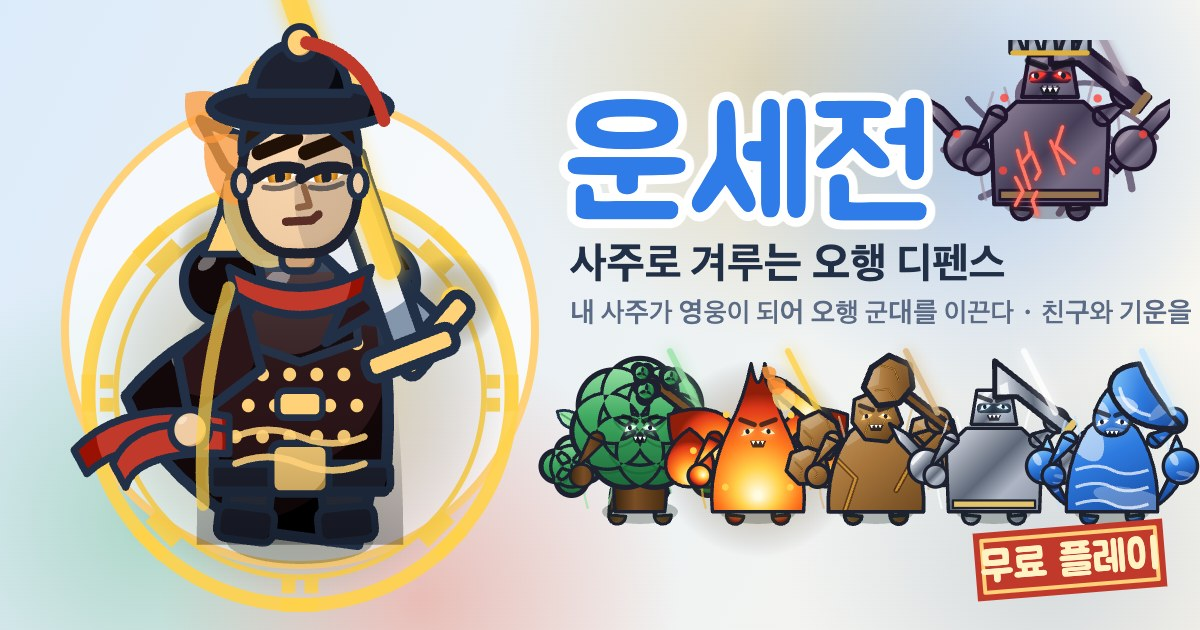
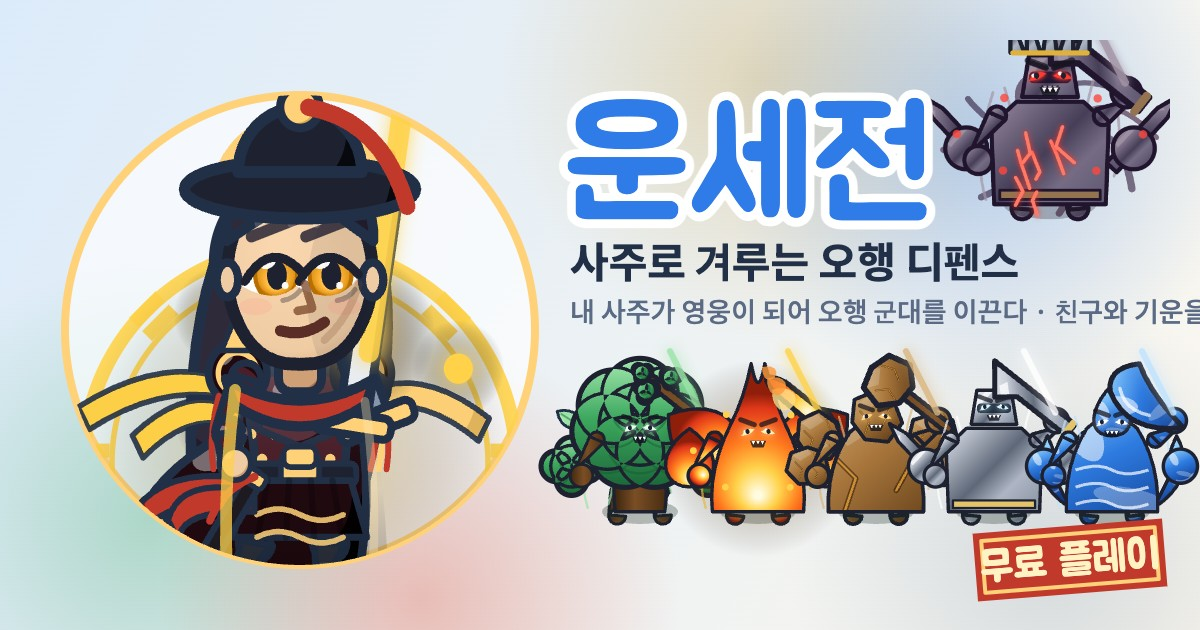
v8.8: hero evolution cutscene, home tap pose, bust share card, new og.jpg

Changed region(s): [[0.0617, 0.0, 0.4317, 0.9952], [0.4625, 0.3619, 1.0, 0.5127]]

diff --git a/index.html b/index.html
@@ -633,7 +633,7 @@
           <div class="r" id="assetList" style="margin-top:6px"></div>
           <div class="note" style="margin-top:6px">영웅 시트: 프레임 8장(대기 4 · 공격 3 · 피격 1), 발이 아래쪽 중앙. 신살 시트: 프레임 6~12장, 백호·역마는 옆모습(왼쪽→오른쪽으로 달림), 귀인은 정면.</div>
             </details>
-            <div class="note" style="text-align:center;padding:10px 0 20px">운세전 <span id="verTag">v8.7</span> · 사주로 겨루는 오행 디펜스</div>
+            <div class="note" style="text-align:center;padding:10px 0 20px">운세전 <span id="verTag">v8.8</span> · 사주로 겨루는 오행 디펜스</div>
           </section>
         </div>
         <nav class="tabbar">
@@ -1481,7 +1481,9 @@ function drawScene(){const cv2=$('homeScene');if(!cv2||!cv2.offsetWidth)return;c
     // 영웅 (마당 가운데) + 만세력 군대
     if(t>HW.next){HW.next=t+2.5+Math.random()*4;if(Math.random()<0.65){HW.tx=5.2+Math.random()*4.8;HW.ty=6.4+Math.random()*4.6;}}
     let walking=false;{const dx=HW.tx-HW.x,dy=HW.ty-HW.y,d=Math.hypot(dx,dy);if(d>0.04){const st=Math.min(0.9/30,d);HW.x+=dx/d*st;HW.y+=dy/d*st;walking=true;HW.face=(dx-dy)>0.02?-1:(dx-dy)<-0.02?1:HW.face;}}
-    {const [hx,hy]=P(HW.x,HW.y,0);ctx.save();ctx.translate(hx,hy-(walking?Math.abs(Math.sin(t*9))*2.2:0));const sc=tz*3.4/150,brz=1+0.02*Math.sin(t*2.2);ctx.scale(sc*HW.face*(2-brz),sc*brz);if(walking){ctx.rotate(Math.sin(t*9)*0.04*HW.face);}BLINK=((t*1.1)%4)<0.12;SWING=0;PHASE=Math.floor(t*4)%4;const el=SAJU?SAJU.me:3,g=SAJU&&SAJU.raw&&SAJU.raw.g==='f'?'f':'m';if(!SAJU)ctx.globalAlpha=0.5;drawHero(el,g,1);ctx.restore();
+    {const [hx,hy]=P(HW.x,HW.y,0);ctx.save();ctx.translate(hx,hy-(walking?Math.abs(Math.sin(t*9))*2.2:0));const sc=tz*3.4/150,brz=1+0.02*Math.sin(t*2.2);ctx.scale(sc*HW.face*(2-brz),sc*brz);if(walking){ctx.rotate(Math.sin(t*9)*0.04*HW.face);}BLINK=((t*1.1)%4)<0.12;SWING=0;PHASE=Math.floor(t*4)%4;const el=SAJU?SAJU.me:3,g=SAJU&&SAJU.raw&&SAJU.raw.g==='f'?'f':'m';if(!SAJU)ctx.globalAlpha=0.5;
+      if(HW.pose&&HW.pose>t){const pp=1-(HW.pose-t)/1.1;SWING=pp<0.22?-0.5:1;const pop=1+0.18*Math.sin(Math.min(1,pp/0.4)*Math.PI);ctx.scale(pop,pop);if(pp>=0.22&&pp<0.5){ctx.save();ctx.globalAlpha=(0.5-pp)/0.28;ctx.strokeStyle=PALC[el].l;ctx.lineWidth=3;ctx.beginPath();ctx.arc(0,14,18+pp*70,0,Math.PI*2);ctx.stroke();ctx.restore();}}
+      drawHero(el,g,1);ctx.restore();
       HOT.hero=[hx-tw*1.3,hy-tz*3.6,tw*2.6,tz*3.9];
       if(BUB.until>t&&BUB.text){const bt=BUB.text;ctx.font="700 12px 'Noto Sans KR'";const bw=Math.min(w-24,ctx.measureText(bt).width+22);const bx=Math.max(12,Math.min(w-12-bw,hx-bw/2)),by=hy-tz*3.9-34;const fade=Math.min(1,(BUB.until-t)/0.5);ctx.globalAlpha=fade;ctx.fillStyle='#fff';rr(bx,by,bw,30,12);ctx.fill();ctx.strokeStyle='#2F7BE8';ctx.lineWidth=1.5;ctx.stroke();ctx.beginPath();ctx.moveTo(hx-6,by+30);ctx.lineTo(hx+6,by+30);ctx.lineTo(hx,by+38);ctx.closePath();ctx.fillStyle='#fff';ctx.fill();ctx.fillStyle='#223047';ctx.textAlign='center';ctx.textBaseline='middle';ctx.fillText(bt,bx+bw/2,by+15,bw-12);ctx.globalAlpha=1;}
       HW.hist=HW.hist||[];HW.hist.push([HW.x,HW.y]);if(HW.hist.length>240)HW.hist.shift();
@@ -1511,7 +1513,7 @@ function drawScene(){const cv2=$('homeScene');if(!cv2||!cv2.offsetWidth)return;c
   });}
 function sceneLoop(){if(!$('startOverlay').hidden&&$('scr-home').classList.contains('on')){sceneT+=1/30;drawScene();if(((sceneT*30)|0)%45===0)ambSync();}else if(AMB.kind)AMB.stop();requestAnimationFrame(sceneLoop);}
 function sceneTap(ev){const cv2=$('homeScene');const r=cv2.getBoundingClientRect();const x=ev.clientX-r.left,y=ev.clientY-r.top;const inB=(h)=>h&&x>=h[0]&&x<=h[0]+h[2]&&y>=h[1]&&y<=h[1]+h[3];const inR=(h)=>h&&(inB(h)||inB(h.tag));
-  AU.init();if(inR(HOT.hero)){heroSay(greetLine());AU.buy();return;}
+  AU.init();if(inR(HOT.hero)){heroSay(greetLine());HW.pose=sceneT+1.1;HW.poseFx=sceneT;AU.buy();buzz(20);return;}
   if(inR(HOT.gate)){$('goInfo').textContent=`전투력 ${combatPower().toLocaleString()} · ${rankText()}${DAILY.level?'':' · 운세를 아직 뽑지 않았다'}`;$('goSheet').hidden=false;renderGuest();AU.buy();}
   else if(inR(HOT.fortune)){$('hFortuneBtn').click();}
   else if(inR(HOT.room)){DOORFX={bb:HOT.room,until:sceneT+0.45,col:'#FFD27A'};AU.buy();setTimeout(()=>document.querySelector('.tabbar button[data-s="hero"]').click(),300);}
@@ -1609,7 +1611,7 @@ function shareCard(){const c=document.createElement('canvas');c.width=1080;c.hei
     ctx.fillStyle='rgba(255,255,255,.55)';ctx.beginPath();ctx.arc(540,560,300,0,Math.PI*2);ctx.fill();
     ctx.textAlign='center';ctx.textBaseline='middle';ctx.fillStyle='#2F7BE8';ctx.font="700 96px 'Jua','Noto Sans KR',sans-serif";ctx.fillText('운세전',540,120);
     ctx.fillStyle='#5B6B85';ctx.font="700 34px 'Noto Sans KR',sans-serif";ctx.fillText('사주로 겨루는 오행 디펜스',540,190);
-    const el=SAJU?SAJU.me:3,g=SAJU&&SAJU.raw&&SAJU.raw.g==='f'?'f':'m';ctx.save();ctx.translate(540,600);ctx.scale(3.6,3.6);BLINK=false;SWING=0;PHASE=0;HURT=false;drawHero(el,g,TIER(metaHeroGrade()));ctx.restore();
+    const el=SAJU?SAJU.me:3,g=SAJU&&SAJU.raw&&SAJU.raw.g==='f'?'f':'m';ctx.save();ctx.beginPath();ctx.arc(540,560,300,0,Math.PI*2);ctx.clip();ctx.translate(540,760);ctx.scale(5.6,5.6);BLINK=false;SWING=0;PHASE=0;HURT=false;drawHero(el,g,TIER(metaHeroGrade()));ctx.restore();
     ctx.fillStyle='#223047';ctx.font="700 40px 'Noto Sans KR',sans-serif";ctx.fillText(`${SAJU?SAJU.ilju+' '+HERO_STYLE[el].job:'무명 영웅'}${NAME?' · '+NAME:''}`,540,880);
     ctx.fillStyle='#F2A23A';ctx.font="700 150px 'Jua','Noto Sans KR',sans-serif";ctx.fillText(`${S.wave}웨이브`,540,990);
     if(S.won){ctx.fillStyle='#C0392B';ctx.font="700 44px 'Noto Sans KR',sans-serif";ctx.fillText('천하통일 · 30웨이브 사수',540,1070);}
@@ -1901,6 +1903,7 @@ function tryCombine(from,to){
   burst(x,y,GCOL[ng-1],10+ng*5,80+ng*30);ring(x,y,GCOL[ng-1],60+ng*15,0.5);
   if(ng>=6){S.mythic++;S.shake=Math.max(S.shake,0.8);ring(W/2,H/2,'#F25C5C',600,1.2);cutin('신화 탄생',`${unitName(S.units[to])} · 궁극기 ${ULT[S.units[to].el].name} 해금`,'#F25C5C',2,true);log(`신화 탄생: ${unitName(S.units[to])} · 궁극기 ${ULT[S.units[to].el].name} 해금`,'hi');}
   if(!hero&&(ng===3||ng===5)){const tr=TRAIT[S.units[to].el][ng===3?0:1];log(`${EL[S.units[to].el].k} 특성 해금: ${tr.n} — ${tr.t}`,'good');cutin(`특성 해금 · ${tr.n}`,`${EL[S.units[to].el].k} ${GRADE[ng-1]} · ${tr.t}`,EL[S.units[to].el].color,1.6);}
+  if(TIER(ng)>TIER(b.grade)&&S.units[to]&&S.units[to].hero){const nu=S.units[to];S.heroEvo={t:0,dur:2.4,el:nu.el,g:nu.gender||'m',from:TIER(b.grade),to:TIER(ng),name:['수호자','신수','천신'][TIER(ng)]||'신수'};S.shake=Math.max(S.shake,0.5);buzz([30,40,80]);}
   if(TIER(ng)>TIER(b.grade)){const nu=S.units[to];nu.evo=1;ring(x,y,'#fff',70,0.6);ring(x,y,GCOL[ng-1],110,0.9);burst(x,y,'#fff',16,140);S.flash=0.15;S.flashColor='#fff';ftext(x,y-48,`진화 · ${['정령','수호자','신수'][TIER(ng)]}`,'#fff',true);AU.relic();}
   S.maxGrade=Math.max(S.maxGrade,ng);S.sel=to;
 }
@@ -2094,6 +2097,7 @@ function frame(ts){
 }
 function fxOnly(dt){
   S.time+=dt;
+  if(S.heroEvo){S.heroEvo.t+=dt;if(S.heroEvo.t>=S.heroEvo.dur)S.heroEvo=null;}
   if(S.victoryT>0){S.victoryT-=dt;S.fwT=(S.fwT||0)+dt;if(S.fwT>0.28){S.fwT=0;const x=W*0.15+Math.random()*W*0.7,y=H*0.15+Math.random()*H*0.4;const col=['#FFB020','#E3553B','#3FA66B','#3D7FD9','#F7A8C4'][Math.floor(Math.random()*5)];burst(x,y,col,26,150);burst(x,y,'#fff',10,90);ring(x,y,col,40,0.5);AU.tone(600+Math.random()*500,0.12,'triangle',0.05,-200);const h=heroUnit();if(h&&Math.random()<0.4){h.anim='attack';h.animT=0;}}
     if(S.victoryT<=0){$('winOverlay').hidden=false;{const el=SAJU?SAJU.me:3,g=SAJU&&SAJU.raw&&SAJU.raw.g==='f'?'f':'m';const f=$('winFace');if(f)drawOn(f,()=>{ctx.translate(60,96);ctx.scale(1.12,1.12);BLINK=false;SWING=1;PHASE=0;HURT=false;drawHero(el,g,TIER(metaHeroGrade()));});const ws=$('winSay');if(ws)ws.textContent=['서른 고개를 넘었다. 이 마당의 주인은 자네다.','천하가 조용해졌다. 오늘은 발 뻗고 자자.','오행이 춤을 췄다. 자네 손이 좋았다.'][Math.floor(Math.random()*3)];}}}
   for(const s of S.shots){s.life-=dt*(s.slow?1:s.rain?1.2:7);if(s.rain){s.y1+=dt*700;s.x2=s.x1-8;s.y2=s.y1+40;}}S.shots=S.shots.filter(s=>s.life>0);
@@ -2791,6 +2795,20 @@ function paperBg(){
   return BGC;
 }
 const SHIN=['청룡','주작','기린','백호','현무'];
+// 영웅 승급 변신: 어둠 → 옛 모습 실루엣 빛남 → 섬광 → 새 모습 + 오행 광선 + 명패
+function drawHeroEvo(e){const p=e.t/e.dur;const P=PALC[e.el];const cx=W/2,cy=H*0.5;const ez=x=>1-Math.pow(1-x,3);
+  ctx.save();ctx.globalAlpha=p<0.1?p/0.1:p>0.85?(1-p)/0.15:1;ctx.fillStyle='rgba(10,12,24,.78)';ctx.fillRect(0,0,W,H);
+  const flash=p>0.38&&p<0.5;const after=p>=0.44;const sc=after?3.2*(1+0.25*Math.max(0,1-(p-0.44)/0.2)):2.6*(1+p*0.4);
+  if(after){ctx.save();ctx.translate(cx,cy);ctx.rotate(p*0.9);for(let k=0;k<14;k++){ctx.rotate(Math.PI*2/14);const gr=ctx.createLinearGradient(0,0,0,-H*0.7);gr.addColorStop(0,P.l+'CC');gr.addColorStop(1,P.l+'00');ctx.fillStyle=gr;const L=H*0.7*(0.7+0.3*Math.sin(p*11+k));ctx.beginPath();ctx.moveTo(0,0);ctx.lineTo(-12,-L);ctx.lineTo(12,-L);ctx.closePath();ctx.fill();}ctx.restore();
+    for(let k=0;k<3;k++){const rr0=(after?((p-0.44)/0.56):0)*(180+k*60);ctx.strokeStyle=k===1?'#FFD27A':P.l;ctx.globalAlpha*=1;ctx.lineWidth=3-k*0.6;ctx.beginPath();ctx.arc(cx,cy,rr0,0,Math.PI*2);ctx.stroke();}}
+  ctx.save();ctx.translate(cx,cy+40);ctx.scale(sc,sc);BLINK=false;SWING=after?0.5:0;PHASE=Math.floor(S.time*4)%4;HURT=false;
+  if(!after){drawHero(e.el,e.g,e.from);ctx.globalCompositeOperation='source-atop';}
+  else drawHero(e.el,e.g,e.to);ctx.restore();
+  if(!after){ctx.save();ctx.globalCompositeOperation='lighter';ctx.globalAlpha=Math.min(1,p/0.38)*0.9;const gr=ctx.createRadialGradient(cx,cy,10,cx,cy,170);gr.addColorStop(0,'rgba(255,255,255,.95)');gr.addColorStop(1,'rgba(255,255,255,0)');ctx.fillStyle=gr;ctx.beginPath();ctx.arc(cx,cy,170,0,Math.PI*2);ctx.fill();ctx.restore();}
+  if(flash){ctx.fillStyle='rgba(255,255,255,'+(1-(p-0.38)/0.12)+')';ctx.fillRect(0,0,W,H);}
+  if(after){const q=ez(Math.max(0,Math.min(1,(p-0.5)/0.25)));ctx.save();ctx.translate(cx,cy-190);ctx.scale(q,q);ctx.fillStyle='rgba(192,57,43,.95)';rr(-150,-36,300,72,12);ctx.fill();ctx.strokeStyle='#FFD27A';ctx.lineWidth=3;rr(-142,-28,284,56,9);ctx.stroke();ctx.fillStyle='#FFF3C4';ctx.textAlign='center';ctx.textBaseline='middle';ctx.font="400 34px 'Jua','Noto Sans KR',sans-serif";ctx.fillText(`변신 · ${e.name}`,0,-2);ctx.restore();
+    ctx.fillStyle='#FFE9A8';ctx.font="700 18px 'Noto Sans KR',sans-serif";ctx.textAlign='center';ctx.fillText(`${EL[e.el].k}의 기운이 영웅을 감쌌다`,cx,cy+205);}
+  ctx.restore();}
 function draw(){
   ctx.setTransform(1,0,0,1,0,0);ctx.clearRect(0,0,W,H);
   ctx.drawImage(paperBg(),0,0);
@@ -2920,6 +2938,7 @@ function draw(){
   // 컷인 배너
   if(S.victoryT>0){const vp=1-S.victoryT/3.2;const sc=vp<0.15?1.6-vp/0.15*0.6:1;ctx.save();ctx.globalAlpha=Math.min(1,vp*6);ctx.translate(W/2,H*0.42);ctx.rotate(-0.08);ctx.scale(sc,sc);ctx.fillStyle='rgba(192,57,43,.92)';rr(-118,-44,236,88,14);ctx.fill();ctx.strokeStyle='#FFD27A';ctx.lineWidth=4;rr(-110,-36,220,72,10);ctx.stroke();ctx.fillStyle='#FFF3C4';ctx.font="400 52px 'Jua','Noto Sans KR'";ctx.textAlign='center';ctx.textBaseline='middle';ctx.fillText('천하통일',0,2);ctx.restore();
     ctx.save();ctx.globalAlpha=0.9;const r0=rng(Math.floor(S.time*3));for(let i=0;i<24;i++){const x=(r0()*W),y=(r0()*H+S.time*120)%H;ctx.fillStyle=['#FFB020','#E3553B','#3FA66B','#3D7FD9','#fff'][i%5];ctx.save();ctx.translate(x,y);ctx.rotate(S.time*4+i);ctx.fillRect(-4,-2,8,4);ctx.restore();}ctx.restore();}
+  if(S.heroEvo)drawHeroEvo(S.heroEvo);
   if(S.cutins.length){const c=S.cutins[0];const p=c.t/c.dur;const ease=x=>1-Math.pow(1-x,3);
     const slide=p<0.2?(1-ease(p/0.2))*-W:p>0.8?ease((p-0.8)/0.2)*W:0;const a=p<0.15?p/0.15:p>0.85?(1-p)/0.15:1;
     ctx.save();ctx.globalAlpha=Math.max(0,Math.min(1,a));ctx.translate(slide,0);
@@ -3245,8 +3264,8 @@ requestAnimationFrame(frame);
 // 디버그 / 시뮬레이션 훅
 const tag=u=>u?EL[u.el].k+u.grade+(u.fused?'✦':''):'-';
 (()=>{try{const c=document.createElement('canvas');c.width=c.height=180;const g=c.getContext('2d');const gr=g.createLinearGradient(0,0,0,180);gr.addColorStop(0,'#2F7BE8');gr.addColorStop(1,'#1F4FA8');g.fillStyle=gr;g.fillRect(0,0,180,180);g.fillStyle='#FFB020';g.beginPath();g.arc(90,78,50,0,Math.PI*2);g.fill();g.fillStyle='#fff';g.font="700 64px 'Jua','Noto Sans KR',sans-serif";g.textAlign='center';g.textBaseline='middle';g.fillText('운',90,80);g.font="700 26px 'Noto Sans KR',sans-serif";g.fillText('운세전',90,152);$('appIcon').href=c.toDataURL('image/png');}catch(_){}})();
-window.__ubz={HOT,dexTick:(d)=>{DEXA.ang+=(d==null?0.5:d);dexFrame();return DEXA.ang;},heroBig:(opts)=>{opts=opts||{};const cv2=document.createElement('canvas');const n=(opts.list||[[0,0,'m']]).length;const cw=opts.cw||300,chh=opts.ch||400,sc=opts.sc||3.2;cv2.width=n*cw;cv2.height=chh;drawOn(cv2,()=>{ctx.fillStyle='#EAF4E6';ctx.fillRect(0,0,cv2.width,cv2.height);(opts.list||[[0,0,'m']]).forEach(([stem,br,g],i)=>{ctx.save();ctx.translate(i*cw+cw/2,chh*0.72);ctx.scale(sc,sc);BLINK=false;SWING=opts.sw||0;PHASE=opts.ph||0;HURT=!!opts.hurt;if(opts.skin)META.skin=opts.skin;drawHero3({el:STEM_EL[stem],g,stem,br,yang:stem%2===0},opts.tier==null?1:opts.tier);ctx.restore();});});return cv2;},og:()=>{const c=document.createElement('canvas');c.width=1200;c.height=630;const sk=META.skin;META.skin='basic';drawOn(c,()=>{const g=ctx;const bg=g.createLinearGradient(0,0,1200,630);bg.addColorStop(0,'#DCEBFA');bg.addColorStop(1,'#FBF7EE');g.fillStyle=bg;g.fillRect(0,0,1200,630);[['#3FA66B',150,520],['#E3553B',420,600],['#C9A24A',760,80],['#8FA3B8',1050,560],['#3D7FD9',980,140]].forEach(([col,x,y])=>{const gr=g.createRadialGradient(x,y,0,x,y,260);gr.addColorStop(0,col+'55');gr.addColorStop(1,col+'00');g.fillStyle=gr;g.fillRect(0,0,1200,630);});g.fillStyle='rgba(255,255,255,.65)';g.beginPath();g.arc(300,330,235,0,Math.PI*2);g.fill();g.strokeStyle='#FFD27A';g.lineWidth=8;g.stroke();
-    g.save();g.translate(300,430);g.scale(4.6,4.6);BLINK=false;SWING=0;PHASE=0;HURT=false;drawHero3({el:1,g:'m',stem:2,br:10,yang:true},2);g.restore();
+window.__ubz={HOT,scene:(dt)=>{sceneT+=(dt||0);drawScene();return sceneT;},HW,dexTick:(d)=>{DEXA.ang+=(d==null?0.5:d);dexFrame();return DEXA.ang;},heroBig:(opts)=>{opts=opts||{};const cv2=document.createElement('canvas');const n=(opts.list||[[0,0,'m']]).length;const cw=opts.cw||300,chh=opts.ch||400,sc=opts.sc||3.2;cv2.width=n*cw;cv2.height=chh;drawOn(cv2,()=>{ctx.fillStyle='#EAF4E6';ctx.fillRect(0,0,cv2.width,cv2.height);(opts.list||[[0,0,'m']]).forEach(([stem,br,g],i)=>{ctx.save();ctx.translate(i*cw+cw/2,chh*0.72);ctx.scale(sc,sc);BLINK=false;SWING=opts.sw||0;PHASE=opts.ph||0;HURT=!!opts.hurt;if(opts.skin)META.skin=opts.skin;drawHero3({el:STEM_EL[stem],g,stem,br,yang:stem%2===0},opts.tier==null?1:opts.tier);ctx.restore();});});return cv2;},og:()=>{const c=document.createElement('canvas');c.width=1200;c.height=630;const sk=META.skin;META.skin='basic';drawOn(c,()=>{const g=ctx;const bg=g.createLinearGradient(0,0,1200,630);bg.addColorStop(0,'#DCEBFA');bg.addColorStop(1,'#FBF7EE');g.fillStyle=bg;g.fillRect(0,0,1200,630);[['#3FA66B',150,520],['#E3553B',420,600],['#C9A24A',760,80],['#8FA3B8',1050,560],['#3D7FD9',980,140]].forEach(([col,x,y])=>{const gr=g.createRadialGradient(x,y,0,x,y,260);gr.addColorStop(0,col+'55');gr.addColorStop(1,col+'00');g.fillStyle=gr;g.fillRect(0,0,1200,630);});g.fillStyle='rgba(255,255,255,.65)';g.beginPath();g.arc(300,330,235,0,Math.PI*2);g.fill();g.strokeStyle='#FFD27A';g.lineWidth=8;g.stroke();
+    g.save();g.beginPath();g.arc(300,330,235,0,Math.PI*2);g.clip();g.translate(300,500);g.scale(4.7,4.7);BLINK=false;SWING=0;PHASE=0;HURT=false;drawHero3({el:1,g:'m',stem:2,br:10,yang:true},2);g.restore();
     [0,1,2,3,4].forEach((el,i)=>{g.save();g.translate(640+i*118,470);g.scale(1.9,1.9);BLINK=false;SWING=0;PHASE=0;HURT=false;drawCreature(el,2);g.restore();});
     const bs=bossSprite(3,0,false);g.drawImage(bs,930,40,240,240);
     g.textAlign='left';g.textBaseline='alphabetic';g.font="400 150px 'Jua','Noto Sans KR',sans-serif";g.lineWidth=18;g.lineJoin='round';g.strokeStyle='#fff';g.strokeText('운세전',565,215);g.fillStyle='#2F7BE8';g.fillText('운세전',565,215);g.fillStyle='#223047';g.font="700 42px 'Noto Sans KR',sans-serif";g.fillText('사주로 겨루는 오행 디펜스',570,278);g.fillStyle='#5B6B85';g.font="500 27px 'Noto Sans KR',sans-serif";g.fillText('내 사주가 영웅이 되어 오행 군대를 이끈다 · 친구와 기운을 나눈다',570,322);
